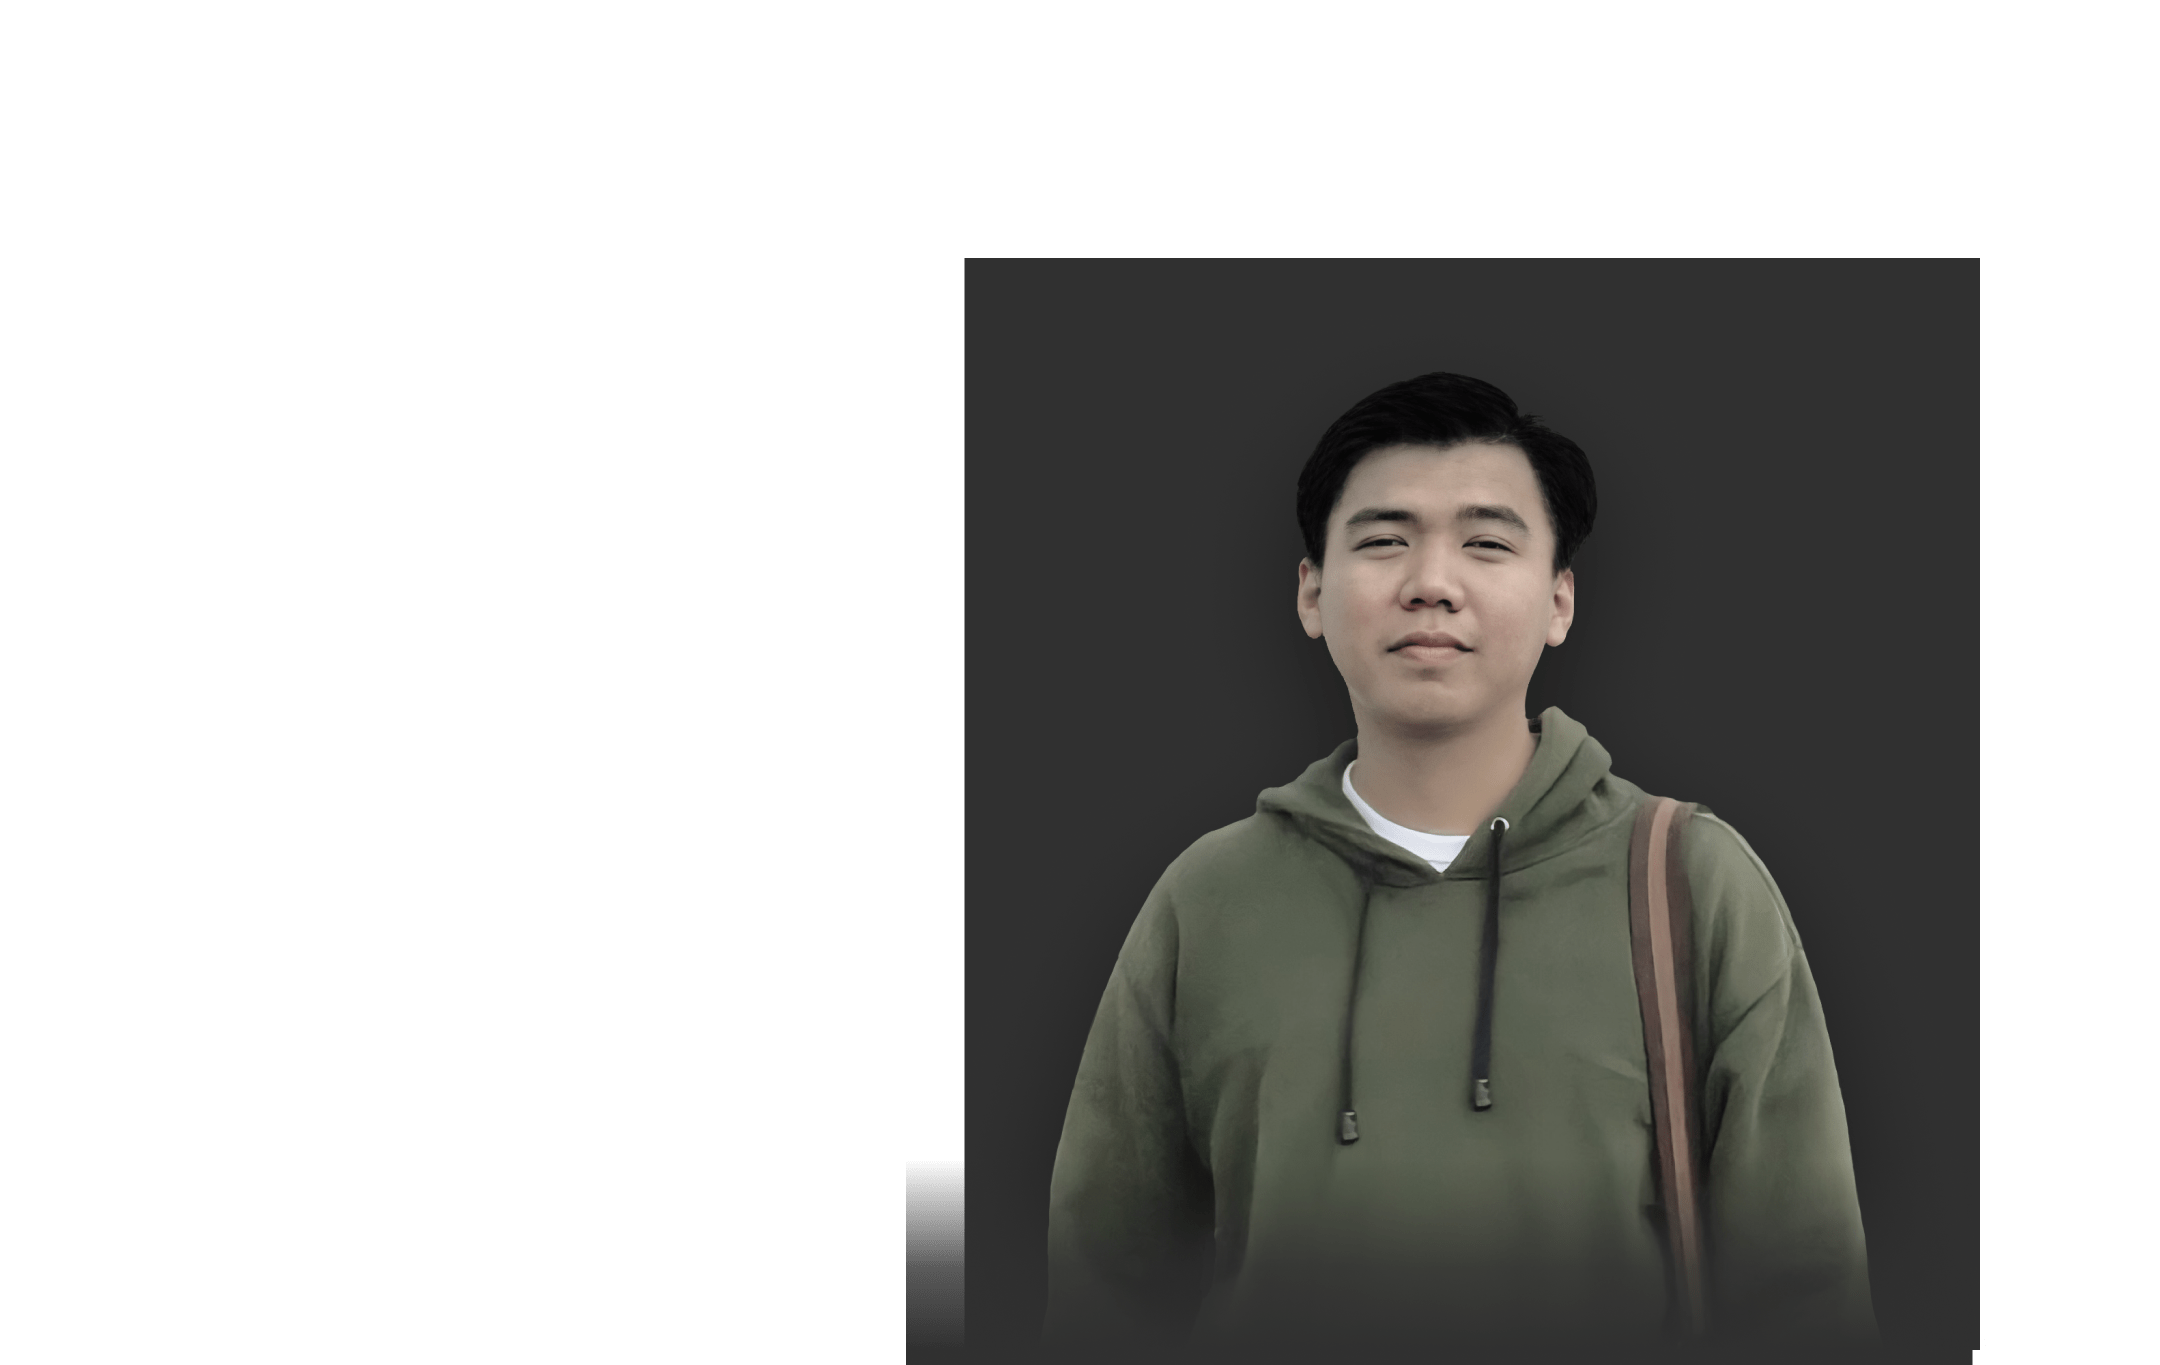
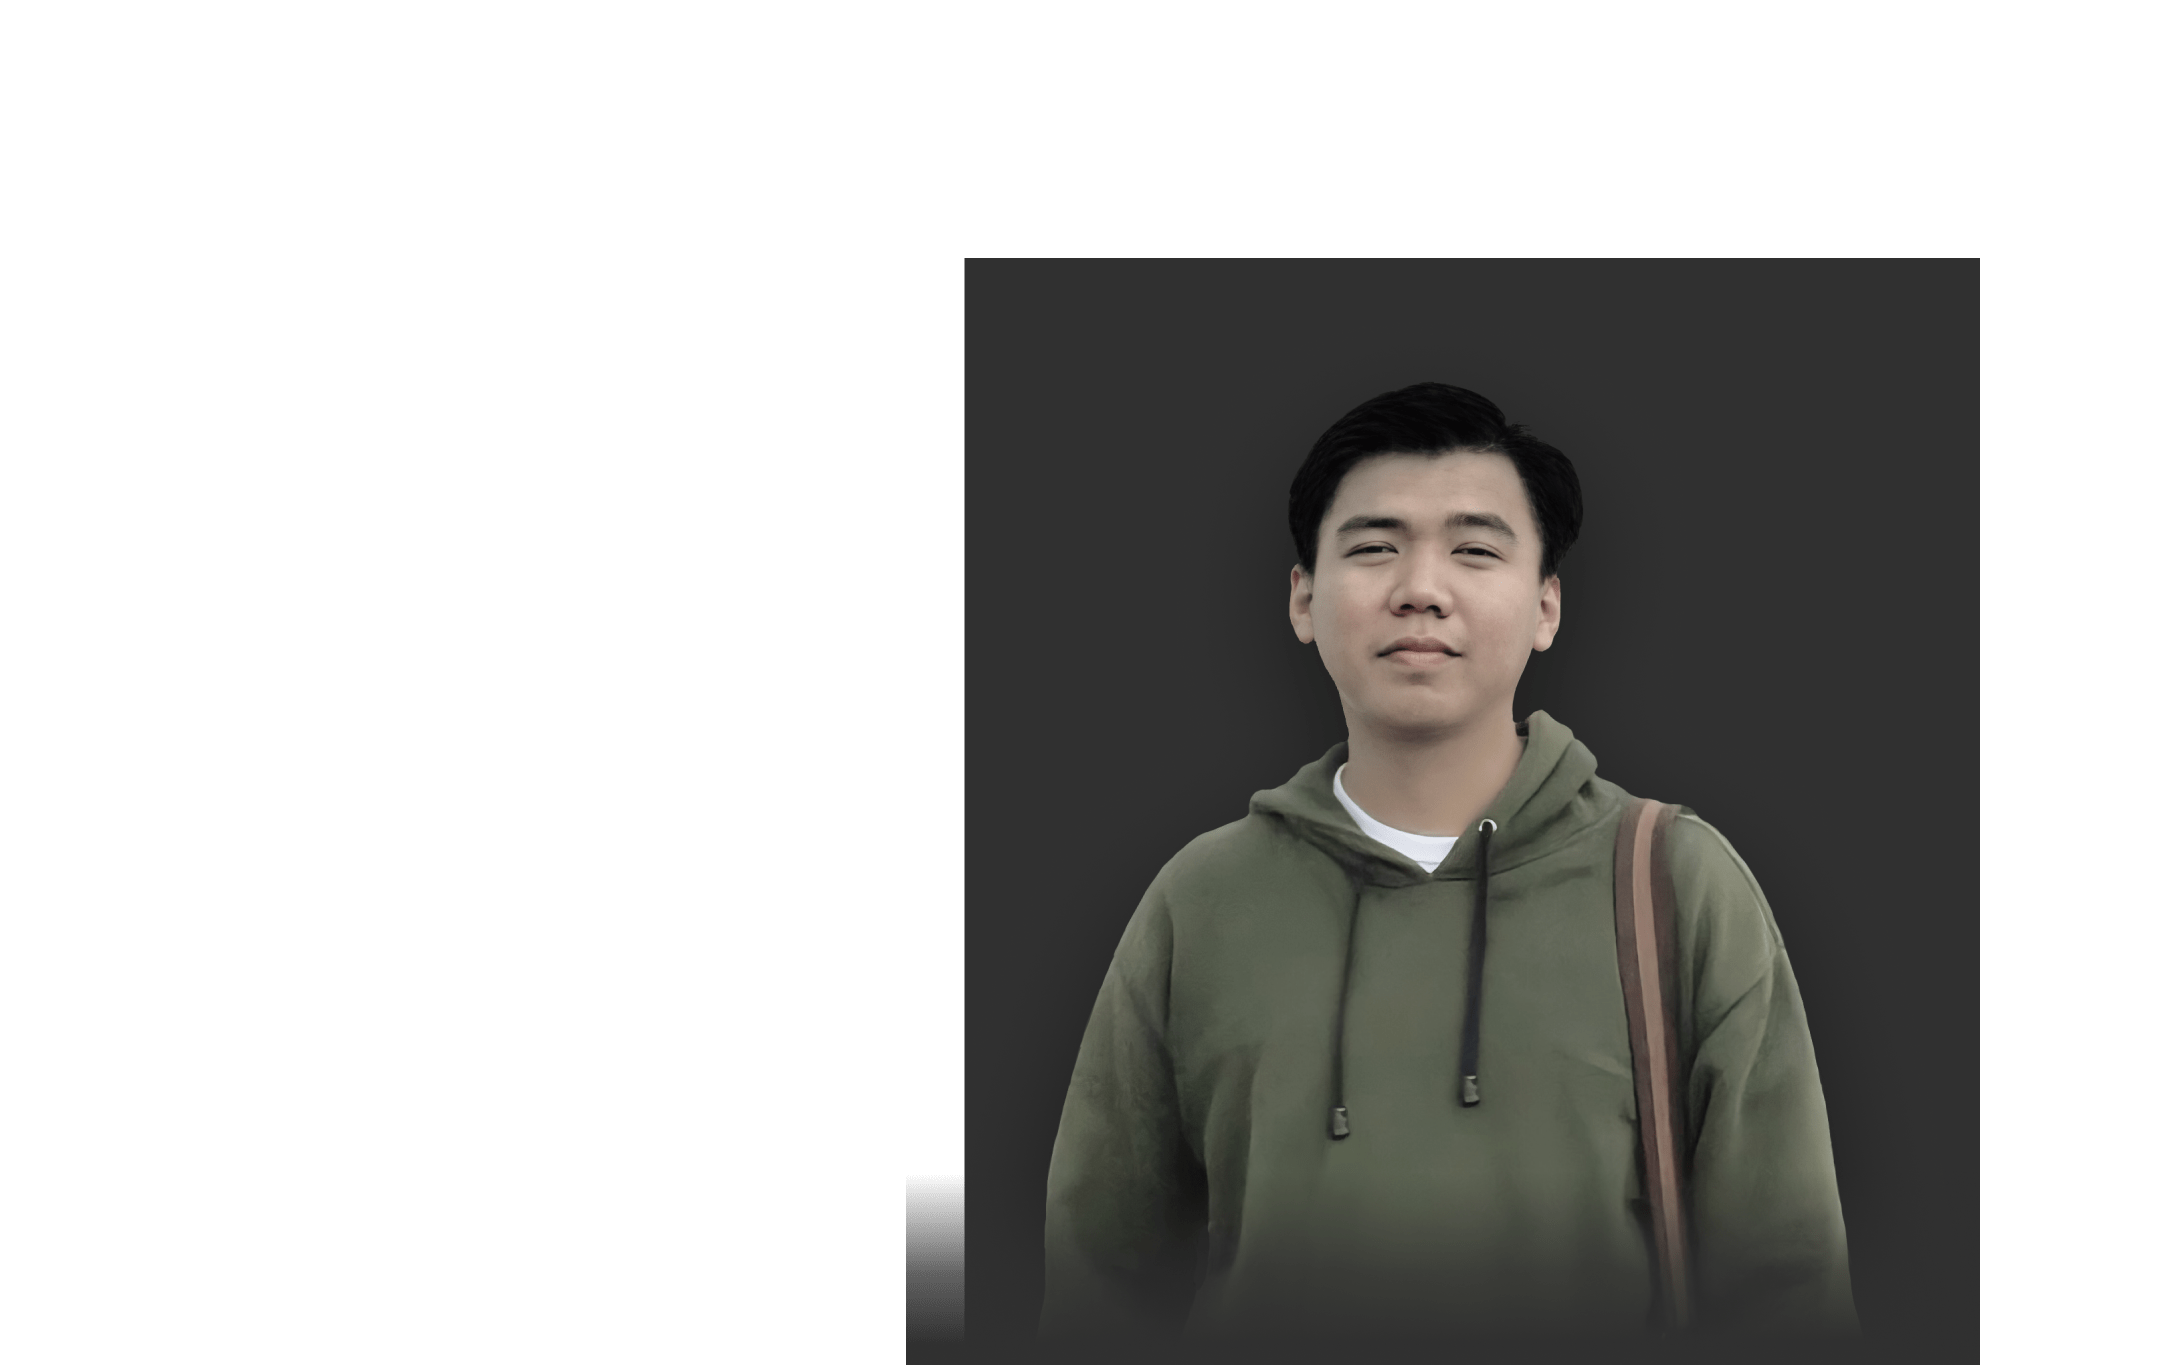
hero shadow button

Changed region(s): [[0.5583, 0.2769, 0.8685, 0.9231], [0.8995, 0.9846, 0.9306, 1.0]]

diff --git a/css/styles.css b/css/styles.css
@@ -10259,7 +10259,7 @@ body {
   height: auto;
   min-height: 35rem;
   padding: 10rem 0;
-  background: linear-gradient(to bottom, rgba(0, 0, 0, 0) 0%, rgba(0, 0, 0, 0) 100%, #303030 100%), url("../assets/img/hero_bg.png");
+  background: linear-gradient(to bottom, rgba(0, 0, 0, 0) 0%, rgba(0, 0, 0, 0) 78%, #303030 100%), url("../assets/img/hero_bg.png");
   background-position: center;
   background-repeat: no-repeat;
   background-attachment: scroll;
